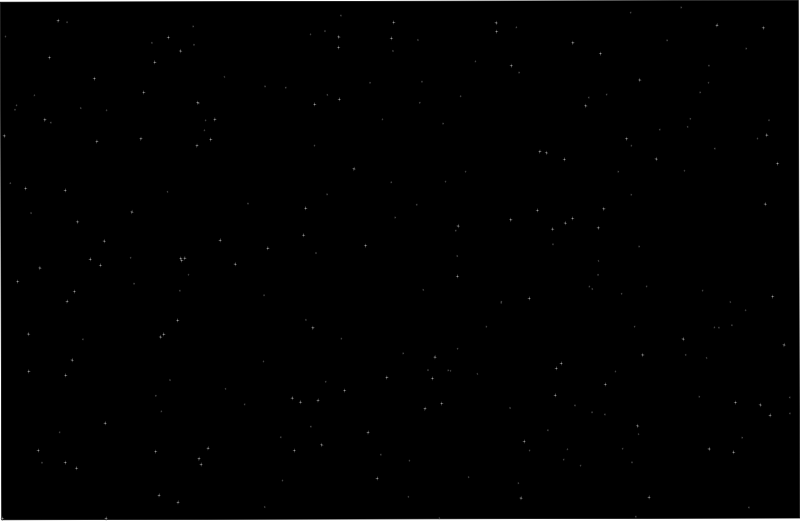
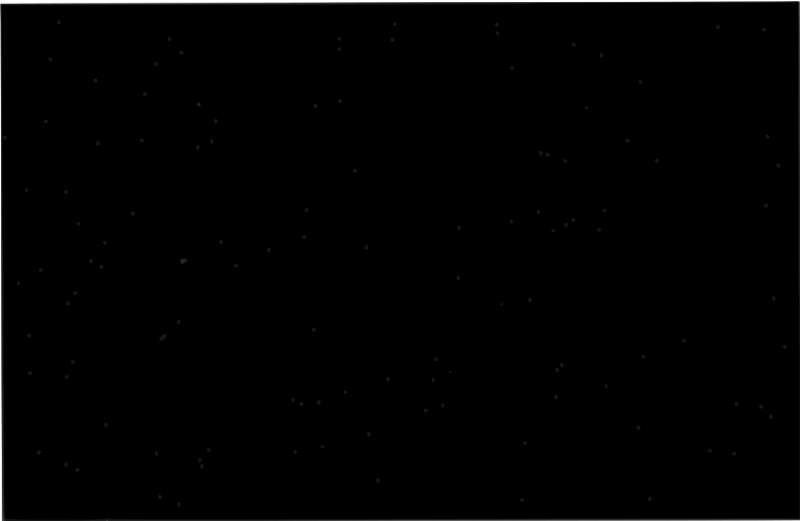
fixed let's go button, changed background png to svg. and qt quick controls version

Changed region(s): [[0.0, 0.7985, 1.0, 1.0], [0.0, 0.0, 1.0, 0.0307], [0.0, 0.4914, 0.0312, 0.6449]]

diff --git a/src/activities/intro_gravity/Message.qml b/src/activities/intro_gravity/Message.qml
@@ -32,33 +32,33 @@ Item{
     property bool displayed: intro_text.text != "" ? true : false
     property int clickCount: 0
 
-    property string intro1: qsTr("Gravity is universal and Newton's law of universal gravitation extends gravity beyond earth."+"\n"+
-                                 " This force of gravitational attraction is directly dependent upon the masses of both objects"+"\n"+
-                                 " and inversely proportional to the square of the distance that separates their centers.")
-    property string intro2: qsTr("Since the gravitational force is directly proportional to the mass of both"
-                                 +"\n"+" interacting objects, more massive objects will attract each other with"
-                                 +"\n"+" a greater gravitational force.So as the mass of either object increases,"
-                                 +"\n"+" the force of gravitational attraction between them also increases but"
-                                 +"\n"+" this force is inversely proportional to the square of the separation"
-                                 +"\n"+" distance between the two interacting objects, more separation distance"
-                                 +"\n"+" will result in weaker gravitational forces.")
-    property string intro3: qsTr("Your goal is to let Tux's spaceship move by changing the mass"
+    property string intro1: qsTr("Gravity is universal and Newton's law of universal gravitation extends gravity"
+                                 +"\n"+" beyond earth. This force of gravitational attraction is directly dependent"
+                                 +"\n"+" upon the masses of both objects and inversely proportional to "
+                                 +"\n"+"the square of the distance that separates their centers.")
+    property string intro2: qsTr("Since the gravitational force is directly proportional to the mass of both interacting"
+                                 +"\n"+"objects, more massive objects will attract each other with a greater gravitational"
+                                 +"\n"+"force.So as the mass of either object increases, the force of gravitational"
+                                 +"\n"+" attraction between them also increases")
+    property string intro3: qsTr(" but this force is inversely proportional to the square of the separation distance"
+                                 +"\n"+" between the two interacting objects, more separation distance will "
+                                 +"\n"+"result in weaker gravitational forces.")
+    property string intro4: qsTr("Your goal is to let Tux's spaceship move by changing the mass"
                                  +"\n"+" of its surrounding planets. Don't get too close to the planets"
                                  +"\n"+" or you will crash on them."
                                  +"\n"+" The arrow indicates the direction of the force on your ship.")
-    property string intro4: qsTr("Avoid the asteroid and join the space"
+    property string intro5: qsTr("Avoid the asteroid and join the space"
                            +"\n"+" shuttle to win.")
 
     Rectangle{
         id: intro_textbg
         x: intro_text.x -4
         y: intro_text.y -4
-        width: intro_text.width +8
-        height: intro_text.height +8
+        width: intro_text.width +4
+        height: intro_text.height +4
         color: "#ffff30"
         border.color: "#7AA3CC"
-
-        border.width: 3
+        border.width: 2
         radius: 8
         opacity: message.displayed ? 1 : 0
         Behavior on opacity { NumberAnimation {duration: 100 } }
@@ -67,23 +67,24 @@ Item{
 
     GCText{
         id: intro_text
-        text: qsTr("Gravity is universal and Newton's law of universal gravitation extends gravity beyond earth."+"\n"+
-                   " This force of gravitational attraction is directly dependent upon the masses of both objects"+"\n"+
-                   " and inversely proportional to the square of the distance that separates their centers.")
+        text: qsTr("Gravity is universal and Newton's law of universal gravitation extends gravity"
+                       +"\n"+" beyond earth. This force of gravitational attraction is directly dependent"
+                       +"\n"+" upon the masses of both objects and inversely proportional to "
+                       +"\n"+"the square of the distance that separates their centers.")
         fontSize: regularSize
         font.weight: Font.DemiBold
         horizontalAlignment: Text.AlignHCenter
-        verticalAlignment: Text.AlignVCenter
+//        verticalAlignment: Text.AlignVCenter
         anchors {
             top: parent.top
-            topMargin: 30 *ApplicationInfo.ratio
+            topMargin: 10 *ApplicationInfo.ratio
             right: parent.right
-            rightMargin: 30 * ApplicationInfo.ratio
+            rightMargin: 5 * ApplicationInfo.ratio
             left: parent.left
-            leftMargin: 30 * ApplicationInfo.ratio
+            leftMargin: 5 * ApplicationInfo.ratio
         }
         color: "#800000"
-        width: parent.width/2
+        width: parent.width
         wrapMode: Text.WordWrap
         opacity: message.displayed ? 1 : 0
         Behavior on opacity {  NumberAnimation { duration: 100} }
@@ -102,7 +103,7 @@ Item{
             anchors.top : intro_textbg.bottom
             anchors.topMargin: 10
 
-            Text {
+            GCText {
                 anchors.centerIn: button
                 text: "Let's Go"
                 color: "#800000"
@@ -118,6 +119,8 @@ Item{
                     }else if(clickCount == 2){
                         message.text = intro4
                     }else if(clickCount == 3){
+                        message.text = intro5
+                    }else if(clickCount == 4){
                         message.text = qsTr("")
                         button.opacity = 0
                         items.timer.start()

diff --git a/src/activities/intro_gravity/Intro_gravity.qml b/src/activities/intro_gravity/Intro_gravity.qml
@@ -20,7 +20,7 @@
 *   along with this program; if not, see <http://www.gnu.org/licenses/>.
 */
 import QtQuick 2.2
-import QtQuick.Controls 1.3
+import QtQuick.Controls 1.2
 import GCompris 1.0
 
 import "../../core"
@@ -37,9 +37,10 @@ ActivityBase {
     pageComponent: Image {
         id: background
         anchors.fill: parent
-        source: Activity.url+"background.png"
+        source: Activity.url+"background.svg"
         sourceSize.width: parent.width
         fillMode: Image.PreserveAspectCrop
+
         signal start
         signal stop
 
@@ -95,11 +96,11 @@ ActivityBase {
             id: message
             anchors {
                 top: parent.top
-                topMargin: shuttle.y + shuttle.height + 20
+                topMargin: shuttle.y + shuttle.height
                 right: parent.right
-                rightMargin: 200
+                rightMargin: 5
                 left: parent.left
-                leftMargin: 200
+                leftMargin: 5
             }
         }
 
@@ -107,8 +108,7 @@ ActivityBase {
             id: planetLeft
             source: Activity.url+"saturn.png"
             x: 70
-            y: parent.height/2 - height
-
+            y: parent.height/2 - 80
             Behavior on scale{
                 NumberAnimation{ duration: 100 }
             }
@@ -117,15 +117,13 @@ ActivityBase {
         Slider{
             id: sliderLeft
             x: 20
-            y: planetLeft.y
+//            y: planetLeft.y  //removed what could have caused cyclic dependency
+            y: background.height/2 - sliderLeft.height
             activeFocusOnPress: true
             orientation: Qt.Vertical
             value: 1.5
-            stepSize: 0.1
-            updateValueWhileDragging: true
             maximumValue: 2.0
             minimumValue: 1.0
-            tickmarksEnabled: true
             onValueChanged:{
                 planetLeft.scale = value
             }
@@ -136,8 +134,7 @@ ActivityBase {
             id: planetRight
             source: Activity.url+"neptune.png"
             x: parent.width - 130
-            y: parent.height/2 - height
-
+            y: parent.height/2 - 80
             Behavior on scale{
                 NumberAnimation{ duration: 100 }
             }
@@ -147,15 +144,13 @@ ActivityBase {
         Slider{
             id: sliderRight
             x: planetRight.x + planetRight.width + 20
-            y: planetRight.y
+//            y: planetRight.y
+            y: background.height/2 - sliderRight.height
             activeFocusOnPress: true
             orientation: Qt.Vertical
             value: 1.5
-            stepSize: 0.1
-            updateValueWhileDragging: true
             maximumValue: 2.0
             minimumValue: 1.0
-            tickmarksEnabled: true
             onValueChanged:{
                 planetRight.scale = value
             }

diff --git a/src/activities/intro_gravity/intro_gravity.js b/src/activities/intro_gravity/intro_gravity.js
@@ -26,9 +26,6 @@
 
 var currentLevel = 0;
 var numberOfLevel = 4;
-var items;
-var currentImageId = 0
-
 
 //variables for calculating the crash and safe travel
 var distLeft
@@ -50,10 +47,12 @@ var asteroids = new Array;
 var asteroidsErased = new Array;
 
 var fallDuration
-var minDuration = 10000
+var minDuration = 2000
 var asteroidCounter = 1
 var randomX
+var currentImageId = 0
 
+var items;
 var activity
 var background
 var bar
@@ -82,18 +81,21 @@ function initLevel() {
 
     items.timer.stop()
     items.asteroidCreation.stop()
-    items.scaleLeft = 1.5 ; items.scaleRight = 1.5
 
+    items.scaleLeft = 1.5 ; items.scaleRight = 1.5
     items.shuttle.x = items.background.width/2
     items.arrow.scale = 1
 
     x = items.shuttle.x;
     y = items.shuttle.y;
     move = 0
+
     fallDuration = minDuration
     asteroidCounter = 1
     destroyAsteroids(asteroids)
     destroyAsteroids(asteroidsErased)
+
+    items.shuttle.source = url + "tux_spaceship.png"
 
     if(items.bar.level !==1){    // no instructions on these levels directly start the game
             items.timer.start()
@@ -117,8 +119,7 @@ function previousLevel() {
 }
 
 
-// functions to handle asteroids
-
+// functions to create and handle asteroids
 
 function createAsteroid() {
 
@@ -134,7 +135,8 @@ function createAsteroid() {
     }
     console.log("change happens"+randomX)
 
-    fallDuration = minDuration + Math.floor(Math.random()* 10000 /(currentLevel + 1))
+    fallDuration = minDuration + Math.floor(Math.random()* 10000 * (currentLevel + 1))
+    console.log(currentLevel+ fallDuration)
     var asteroid = asteroidComponent.createObject(
                 items.background,
                 {
@@ -220,7 +222,7 @@ function moveAsteroid(){
              var y = asteroid.y
 
              asteroid.startMoving(asteroid.fallDuration)
-             if(y > items.background.height- asteroid.height){
+             if(y > items.background.height + asteroid.height){
                      asteroid.destroy()
                      asteroids.splice(i,1)
                     asteroidCounter++
@@ -253,7 +255,7 @@ function drawArrow(x1,y1,scaling,direction){
         items.arrow.source = url + "arrowright.svg"
     }
     items.arrow.y = y1-20
-    items.arrow.scale = scaling * 1.2
+    items.arrow.scale = scaling *(background.width/2)
 }
 
 
